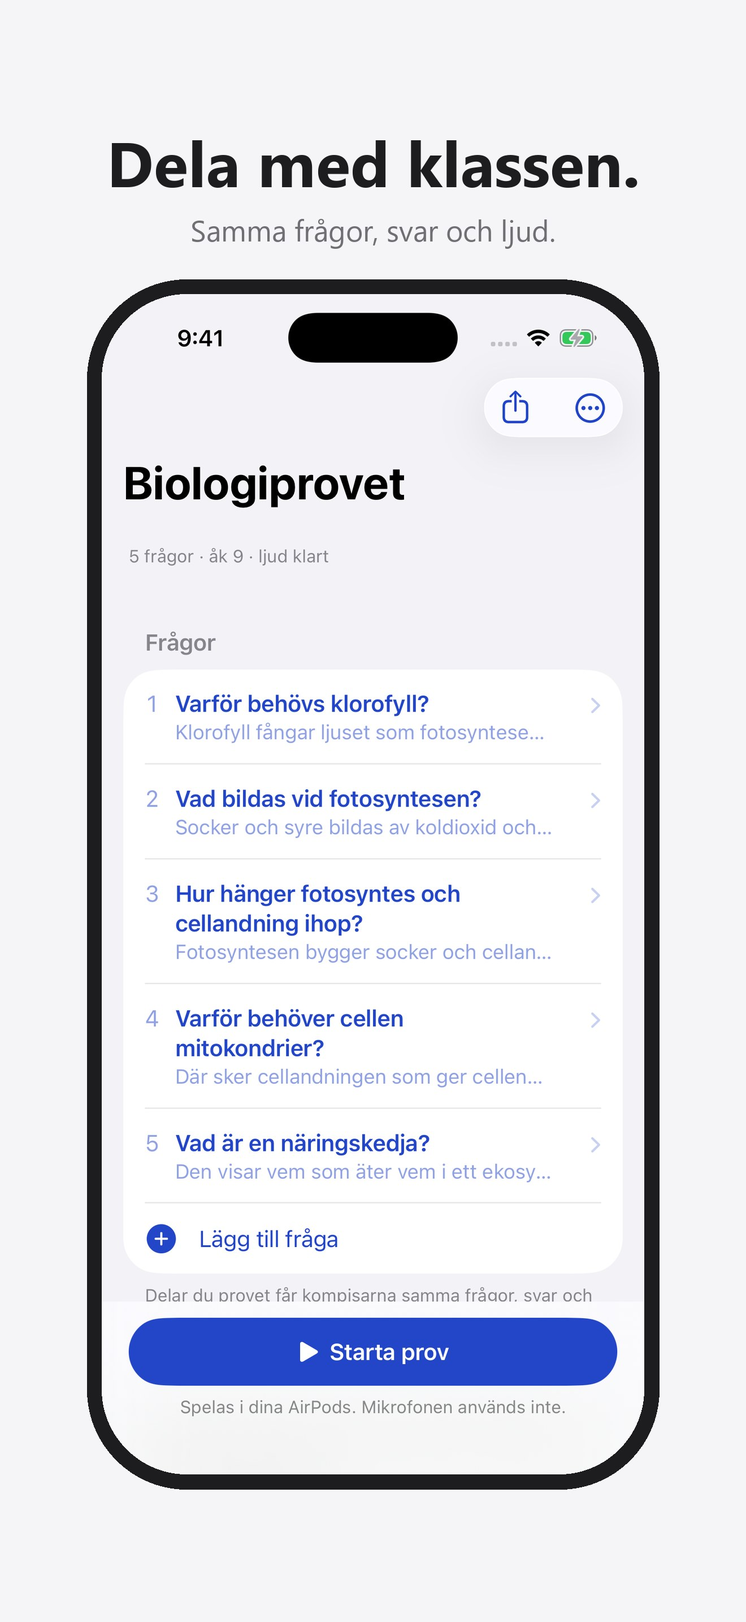
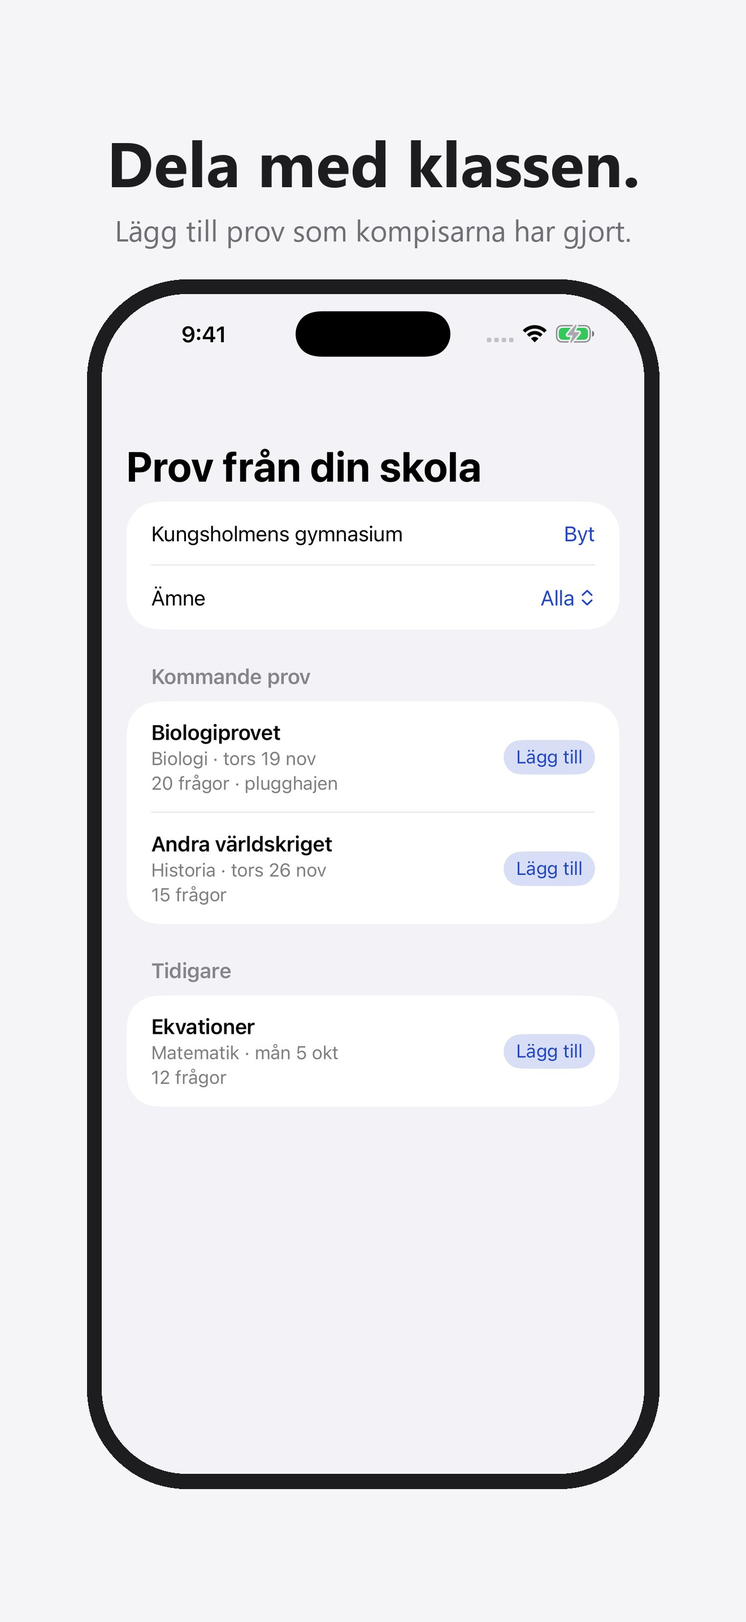
Kelly: App Store-bilder och demosidans utkast ur Pro Max-skärmbilder (43578038498), inget publicerat [skip eval]

diff --git a/drafts/site-repetition/index.html b/drafts/site-repetition/index.html
@@ -6,7 +6,7 @@
 <meta name="robots" content="noindex, nofollow">
 <!-- UTKAST (Kelly Ke54, D160). Publiceras inte förrän Aron sagt ja. Apple-stil enligt docs/design/SYSTEM.md §0:
      systemtypsnitt, en rubrik, en knapp, riktiga skärmbilder från appen, inga kort i kort och inga gradienter.
-     Skärmbilderna kommer från A87 (CI "Simulator screenshots" 43519509067, 3382ae2). -->
+     Skärmbilderna kommer från CI "Simulator screenshots" 43578038498 (iPhone 17 Pro Max, 508aeb2). -->
 <title>Earmind – Plugga med AirPods utan att röra mobilen (utkast)</title>
 <meta name="description" content="Fota materialet. Få provfrågor med A-svar. Plugga med AirPods utan att röra mobilen.">
 <link rel="icon" href="../../site/favicon-32.png">

diff --git a/docs/appstore/_src/appstore.py b/docs/appstore/_src/appstore.py
@@ -28,7 +28,7 @@ SHOTS = [
     ("repList", "Frågor med A-svar.", "Ett kort och ett långt svar på varje fråga."),
     ("repHome", "Starta prov.", "Frågorna läses upp i dina AirPods."),
     ("repControlsDone", "Tryck för svaret.", "1 gång för A-svaret. 2 för ett kort. 3 för paus."),
-    ("repShareReady", "Dela med klassen.", "Samma frågor, svar och ljud."),
+    ("repSchools", "Dela med klassen.", "Lägg till prov som kompisarna har gjort."),
 ]
 
 

diff --git a/docs/STATUS.md b/docs/STATUS.md
@@ -39,7 +39,7 @@ Last updated: 2026-11-08 by Angela (builder).
 - **Provläge (Angela, D36/D38) and Målbeskrivning + Egna kommandon (Angela, D37/D39):** hands-free tutor session (VAD end-of-turn 0.8 s, barge-in, recogniser gated while we speak, auto-end after 10 min releases the microphone, `mode: tutor` with the whole session's `recent_qa`, retried as `push_to_talk` while the backend rejects `tutor`); course goals compact ≤ 1 500 chars as `goals`; keyword commands matched STT-tolerantly and sent as `commands`, spoken "spara kommando …" stored and confirmed. Green in CI (run 41817986402, 249 app tests); **untested on device**; the backend (answer v8) still rejects `mode: tutor` (400, the app falls back to `push_to_talk`) and ignores the new `goals`/`commands` fields until Kevin's D36/D37 tasks land, so the tutor style and command effects are not yet observable. Also the D35 setting *Svarslängd* (Kort / Anpassad / Utförlig → backend `length`, Settings → Answers), green in run 41819618434 (250 app tests). Reports: `reports/2026-11-04-1214-angela-plugglage.md`, `reports/2026-11-04-1214-angela-goals-commands.md`; checklist §3r–3s.
 - **Easy switch to music (Angela, D33):** Pause/Resume on the listening screen, Lock Screen (Live Activity) and a Control; pause releases the audio session, interruptions never auto-resume (also with `shouldResume`), nothing is spoken while paused. New extension `LumenControls`. Green in CI (run 41806325518); **untested on device**, and the Control's process and Lock Screen resume are untested assumptions. Report: `reports/2026-11-04-1130-angela-d33-music-switch.md`.
 - **Queue D44–D58 (Angela, 2026-11-06):** Historik and Minne on the phone (D49/D56), Scribe as default recogniser with Apple as fallback (D44), Mikrofon per mode + comparison in Diagnostics (D55), mode picker with Intervjuläge and Rizzläge on the StudyMachine (D42/D43), report + Feedback & förslag + opt-in sharing (D57), Siri phrases, Start control and spoken pause (D58), checklist §3t–3z. Also fixed: `goals`/`commands` were sent where the backend does not read them. Green in CI (run 42259754856, 315 app tests). **Nothing has run on a device.** `/feedback` and `/shared-history` are not deployed yet. **Open for Aron:** the discreet indicator was not built (see report, Concerns). Report: `reports/2026-11-06-1830-angela-queue-d49-d58.md`.
-- **Offentlig demosida (Kelly, D62/D66/D86):** Kelly: **Ke58 klar (09:55):** Gör med ChatGPT (D169) i docs/design/gor-med-chatgpt.md + 4 skisser (rad i Material, blad med tre steg och PasteButton, känns igen / fel form), till Angela Fable; reports/2026-11-14-0955-kelly-ke58-chatgpt.md. **docs/HJALP.md granskad (03:16, Ke57):** godkänd, tonen och A90-texten stämmer; **till Kevin H-1–H-5:** knapparnas namn som i appen (Lägg till dokument, Dela-symbolen, Rapportera, Provläge, Visa ett användarnamn); reports/2026-11-14-0316-kelly-granskning-hjalp.md. **8684b6d granskad (02:55):** A92 hjälpen godkänd; S1–S5, P3, K4 och pausraden stängda på bild; nya fynd R1 (medel, förloppslinjen över texten i Dela-scenen), S1b/H1/H2 låga; reports/2026-11-14-0255-kelly-granskning-8684b6d.md. **Största text granskad (01:00, CI 43528102988 + SE 43528108671):** rubriker, avstavning, formulär och fasta knappar håller; **S1 hög** ord bryts utan bindestreck vid BETA i Välj läge, **S2 hög** uppspelningen kapar frågan och N1-raden på SE, S3 medel nedre raden på Hem flyter över texten; reports/2026-11-14-0100-kelly-granskning-storsta-text.md. **A83 och A84 granskade på bild (00:33, CI 43524695222): godkända**; P1 (medel) det publicerade provet visar inga frågor före Lägg till; K2/K3/K5 stängda; SYSTEM §10 förtydligad (avstavning med bindestreck okej, långa navigationsrubriker inline vid största text); reports/2026-11-14-0033-kelly-granskning-a83-a84.md. **A87 granskad på bild (2026-11-14 00:10, CI 43519509067 + SE 43519515040): godkänd med två medelfynd** (K1 A90-raden börjar "Tryck" i stället för Arons "tryck", K2 "+" utan text på Hem); A88 och A89 godkända; största text inte granskad (43519595624 och 43519600621 failure); demosidans utkast och App Store-förhandsvisningarna har nu A87-bilder; reports/2026-11-14-0010-kelly-granskning-a87.md. **Ke57 klar (23:48):** hjälp-AI:ns utseende, texter och tonregler i docs/design/hjalp.md + 4 skisser (A92 Angela Fable, K57 Kevin); HJALP.md granskas när den finns; reports/2026-11-13-2348-kelly-ke57-hjalp.md. **Ke56 klar (23:42):** App Store-förberedelse i docs/appstore/ (5 bilder 1320×2868 som förhandsvisning, underrubrik, reklamtext, nyckelord, beskrivning med A90-texten, lista över påståenden att prova på telefon), inget publicerat; reports/2026-11-13-2342-kelly-ke56-appstore.md. **Till Deangelo (från Angela Fable):** Ke55 punkt 1–3 (första starten) ligger i Features/Onboarding, som är Angela Schrutes filer; lägg dem i rätt kö med ägare. **Ke55 klar (23:40):** första starten i Apple-stil, docs/design/forsta-starten.md + 5 skisser (Välkommen med samtycke → Nytt prov → dokumentskannern, inga lyssnande lägen eller mikrofon); **till Deangelo: samtycket för lyssningen flyttas till första starten av ett lyssnande läge (behöver ja)**; reports/2026-11-13-2340-kelly-ke55-forsta-starten.md. **B1, B2, B4, B5 och A86 bekräftade på bild (23:32, CI 43514517449);** små fynd till A87 ("Ta bort provet" inte röd); reports/2026-11-13-2332-kelly-bekraftelse-b1-b2-a86.md. **Ke54 klar (23:26):** demosidan i Apple-stil som utkast i drafts/site-repetition/ (inte publicerat, noindex): systemtypsnitt, en knapp, rubriken "Plugga med AirPods utan att röra mobilen.", tre steg med riktiga app-bilder, tryckdemo utan server; publiceras efter Arons ja och T18; reports/2026-11-13-2326-kelly-ke54-demosida-apple.md. **Ke53 klar (23:00, D160):** SYSTEM.md avsnitt 0 (Apple-stil: SF Pro med textstilar, systemfärger med AccentColor blå, systemkomponenter, en fylld knapp och nästa steg alltid synligt, lista över "AI slop" som tas bort), 7 efter-skisser i `docs/design/bilder/apple/` och **prioriterad lista till Angela (A87, 12 punkter: 1 huvudknappen fast nederst, 2 Hem som systemlista/tomläge, 3 SF Pro, 4 systemknappar, 5 systemfärger/listor …)**; `reports/2026-11-13-2300-kelly-ke53-apple-stil.md`. **Ny användare i repetitionsflödet (22:43, bilder 43508671912):** N1 hög: svaret kommer bara vid tryck, och en ny användare tror att appen hoppar över (förslag: hjälprad + en mening första varvet); N2 kontrollskärmen förklarar inte att frågan spelas, N3 grå Skapa frågor utan skäl, N4 "Starta-knappen"/Provläge i Välj läge; B3/B4 stängda på bild, B1/B2 väntar på bild efter 270b0a0; A85/A86 godkända i koden, A83 inte byggd; reports/2026-11-13-2243-kelly-nyanvandare-repetition.md. **A82 granskad på bild (21:29, CI 43497812619): godkänd med två medelfynd**: B1 "fråga 7 av 5" i Fortsätt där du var?, B2 "Här startar du Earmind" och "Starta Earmind" tar fortfarande plats på Hem (D142: en rad Fler lägen); R1–R12 stängda utom R10 (låg); reports/2026-11-13-2129-kelly-granskning-a82.md. **Ke52 klar (21:17):** design och texter för Publicera prov och Prov från din skola (D149/D150) till A83: `docs/design/publicera-prov.md` + 11 skisser `bilder/repetition/pub-*.png`; användarnamn av från början, skolan sparas bara på telefonen; **till Angela: "övningsprov" finns kvar i A16:s röstförhör (3 ställen, förslag i §3)**; `reports/2026-11-13-2117-kelly-ke52-publicera-prov.md`. **Ke51 klar (20:34):** utkast till demosidan för repetitionsläget i `drafts/site-repetition/` (utanför site/, noindex, **inte publicerat**): "Plugga med AirPods utan att röra mobilen", demo med 1/2/3 tryck utan server, tre steg, lyssnande lägen märkta Beta; publiceras efter T18 + Arons ja; `reports/2026-11-13-2034-kelly-ke51-demosida-utkast.md`. **A78–A81 granskade i koden (20:25), inte på bild (CI 43490256034 failure):** 12 fynd till Angela, **R1 Avsluta är röd och R2 frågan i handstil (höga)**, R4 svarsknappar på uppspelningen, R6 Starta prov väntar på allt ljud, R7 två tryck från Hem, R9 pausraden, R12 Word-felet; `reports/2026-11-13-2025-kelly-granskning-a78-a81-kod.md`. Granskning på bild när CI är grön. **Ke50 klar (2026-11-13 20:19):** alla texter i repetitionsläget i `docs/design/repetition-texter.md` (kopieras rakt in, kolumnen "I koden nu" visar skillnaderna mot b669d02); **till Angela:** paus-raden motsäger D143/D147, Word-felet ska bort (K45 doc_text), nya texter för inga AirPods, inget nät, dagens ljudgräns och delning; `reports/2026-11-13-2019-kelly-ke50-repetitionstexter.md`. Granskar A78–A81 när bilderna finns. **Ke49 klar (2026-11-13 19:57):** design för repetitionsläget (D142–D146) till A79–A81: `docs/design/repetition.md` + 18 skisser ljust/mörkt i `docs/design/bilder/repetition/` (Hem med Starta prov, Nytt prov, sammanfattning, frågelista och redigering med kort svar = markerad första mening, kontrollskärmen med ●/●●/●●●, uppspelning, paus, låsskärm, Fortsätt där du var?, Dela, Fler lägen BETA); **till Deangelo: med D145 blir det 2 × N ljudfiler, inte 3 × N (spec R5b)**; sidan ändras först när A80 provats på telefon (T18), texten är klar; `reports/2026-11-13-1957-kelly-ke49-repetitionslaget.md`. Väntar på kö. Kvar att granska när bilder finns: testlägets skärmar (A76) och hemskärmsikonen efter A71 steg 2. **Ke48 klar (22:22):** A76 testläget: T1–T4 rättade (i koden; bladet nämner andras röster); A77 Vad kan Earmind? från capabilities.json godkänd (CI 43098721442); `reports/2026-11-11-2222-kelly-ke48-a76-rattat-a77.md`. **Ke47 klar (21:48):** sajtens Vad kan Earmind? följer Shared/capabilities.json (K44): Översätta och Söka på webben tillagda, "Kommer snart" kvar på det som inte är provat på telefon; Lighthouse 99/100/100/100; `reports/2026-11-11-2148-kelly-ke47-vad-kan-capabilities.md`. **Ke46 klar (21:16):** A76 testläget godkänd med rättelser (i koden): **T2 bekräftelseblad saknas** (andras röster skickas; hög), T4 ljudtexten motsäger sig själv i Om appen, T1 egen färg i brickan, T3 bricka på Start; `reports/2026-11-11-2116-kelly-ke46-granskning-a76.md`. **Ke45 klar (20:44):** design för testläget (D140, A76): orange bricka "Testläge · ljud skickas", bricka på Start, bekräftelseblad som nämner andras röster, ny ljudtext när testläget är på; `docs/design/testlage.md`, `reports/2026-11-11-2044-kelly-ke45-testlage.md`. **Ke44 klar (20:10):** sajtens tre stegbilder från appen i dag (bort med "Ljud sparas inte." och "förhör Lumen"); Lighthouse 99/100/100/100, 1 528 kB; `reports/2026-11-11-2010-kelly-ke44-stegbilder.md`. **Ke43 klar (20:08):** A71 **godkänd**: AppIcon identisk med exakt/AppIcon-1024.png, röstningen med de sex exakta ikonerna i 2 × 3, märket i rubriken; `reports/2026-11-11-2008-kelly-ke43-granskning-a71.md`. **Ke42 klar (19:05):** sajten visar appens ikon (D glasklotet, exakt) i sidhuvudet, favicon och apple-touch-icon; Lighthouse 99/100/100/100, 1 536 kB; `reports/2026-11-11-1905-kelly-ke42-sajtens-ikon.md`. **Ke22 klar (19:04):** bildplan för de 7 koncepten med Ryans rättelser, slutbild Earmind (D121, exakt ikon), Start-inklipp ur CI och 7 omslag (scenbilderna kommer från Gemini) i `docs/marketing/annonser/ke22/`; cookiebanner och pixlar (Ryans B1) saknar punkt; `reports/2026-11-11-1904-kelly-ke22-bildplan.md`. **Ke41 klar (19:00):** A73 **godkänd** (D138-texten överallt, G3 stängd); L1: licensraden säger att ElevenLabs inte sparar ljudet (motsäger D135); `reports/2026-11-11-1900-kelly-ke41-granskning-a73.md`. **Ke40 klar (18:59):** exakta ChatGPT-ikoner (D139) i `docs/design/logo/rostning/exakt/`: A–F + AppIcon-1024 (D), bara beskurna 2,6–3,1 % för iOS-maskens hörn och uppskalade; **till Angela (A71): filerna är pushade**; `reports/2026-11-11-1859-kelly-ke40-exakta-ikoner.md`. **Väntar på kö (17:35).** Öppet: G3 "Ljud sparas inte" (Ke36) och K1 (Ke38) saknar punkt hos Angela. **Ke39 klar (16:31):** A64 största text **godkänd** på Tobys T13-tur (alla sex reglerna i SYSTEM.md avsnitt 10 håller); två låga rester (lägesikonen skalar inte, Lyssnars underrubrik kapas); `reports/2026-11-11-1631-kelly-ke39-granskning-a64.md`. **Ke38 klar (14:57):** Tobys T8c visar att Ke35 fungerar (Start med "Här startar du Earmind", Provläge 4 tryck i stället för 8, ett blad per öppning efter A66); K1 "Dela historik" ska vara grå sekundär knapp; `reports/2026-11-11-1457-kelly-ke38-granskning-t8c.md`. **Ke37 klar (13:21):** regel för största text i SYSTEM.md avsnitt 10 (aldrig ord brutna mitt i, rader med två delar staplas, rubriker kapas inte), täcker Tobys T11 fynd 1–4 och två till; `reports/2026-11-11-1321-kelly-ke37-storsta-text.md`. **Ke36 klar (12:45):** A55–A61 **godkända** (Earmind, Ke35 Start-rutan, V1/M1/G2 stängda); **öppet G3: "Ljud sparas inte" är osant** (Sov sparar klipp i 30 dagar) i intro, Första frågan och Om appen; ordagranna texter till Deangelo/Angela; `reports/2026-11-11-1245-kelly-ke36-granskning-a55-a61.md`. **Ke35 klar (12:01):** designbeslut på Tobys A50-fynd: första passet slutar på Start med en ruta en gång, varje Starta börjar med tom Lyssnar, Provläge frågar högst en sak (2 tryck i stället för 8); `docs/design/forsta-passet.md`, `reports/2026-11-11-1201-kelly-ke35-forsta-passet.md`. **Ke34 klar (11:28):** A52 **godkänd**, A54 **godkänd med V1** ("Rösta" ser aktiv ut fast den är avstängd: `LumenButtonStyle` saknar avstängt utseende), A53 **godkänd med M1** (textknapp i bläck); kvar G2 grå ikoner i lägesbladet och G3 "Ljud sparas inte" (osant med Sov och inspelning); CI 42999887377; `reports/2026-11-11-1128-kelly-ke34-granskning-a52-a54.md`. **Ke33 klar (10:39):** A50 **godkänd** på CI-bilderna 42993726421 (ljust/mörkt); S2 och Välj läge redan rättade i 537ea48; kvar G1 länk till A52 (med A52), G2 grå ikoner i lägesbladet (låg), G3 "Ljud sparas inte" före A53; `reports/2026-11-11-1039-kelly-ke33-granskning-a50.md`. **Ke32 klar (10:30):** sajten heter Earmind (titel, sidhuvud, metadata, FAQ, demorutan), väckningsordet ”Lumen” kvar i citaten; ny delningsbild `og-earmind.png`; Lighthouse 99/100/100/100, 1 504 kB; `reports/2026-11-11-1030-kelly-ke32-earmind-sajten.md`. **Ke30 klar (10:28):** Mina svar ritat för A53 (`docs/design/mina-svar.md`, 8 skisser ljust/mörkt: lista per prov, Lumens förslag → ditt svar, inspelning med Klar, versioner, brytaren, brickan "Ditt svar" i Provläget); till Aron: inspelning högst 10 min och samtycket måste nämna Scribe före A53; `reports/2026-11-11-1028-kelly-ke30-mina-svar.md`. **Ke29 klar (10:28):** underlag `docs/design/start-vadkan.md` (7 skisser ljust/mörkt): A50 granskad i koden (S1 länk "Allt Lumen kan ›", S2 inget Spotify-exempel före Spotify), A52 "Vad kan Lumen?" ritad (13 rader med verklig status) och bladet efter första svaret; sajten har sektionen Vad kan Lumen? med Siri-raden ("Kommer snart" på det som inte är provat), demorutan Standardläge/Förhör mig; Lighthouse 99/100/100/100, 1 504 kB; `reports/2026-11-11-1028-kelly-ke29-start-vadkan.md`. **Ke31 klar (10:18):** röstningens tre loggor (D127) som rena vektorer, mörk och ljus, samma storlek och ljus (bakgrund 0,010–0,016, toppljus 0,67–0,72), läsbara i 60 och 29 pt; till Angela (A54): `docs/design/logo/rostning/vektor/README.md`; `reports/2026-11-11-1018-kelly-ke31-rostning-vektor.md`. Nästa: Ke29. **Ke24 klar (21:23):** Aron valde logga nummer 4 (bock med ljudvågor); ritad som vektor i `docs/design/logo/` (AppIcon 1024 ljus/mörk/tonad, symbol, favicon), läsbar i 29 pt; demosidans sidhuvud och favicons bytta (Lighthouse 100×4, 1 515 kB); **till Angela: AppIcon (appen har ingen) och `LumenLogo` enligt SYSTEM.md avsnitt 5**; `reports/2026-11-10-2123-kelly-ke24-logga.md`. Väntar på kö, överlämning `docs/HANDOVER-KELLY.md`. **Ke28 klar (20:30):** appens CI-bilder (42876421405) godkända mot SYSTEM.md, 6 fynd; viktigast **Elias hörlur är vit och Apple-lik** (byts före App Store); `reports/2026-11-10-2030-kelly-ke28-granskning.md`. **Ke27 klar (20:28):** sömnläget ritat för A49 (`docs/design/sovlage.md`: Sov i Byt läge, eget samtycke första gången, svart natt med Godmorgon, morgonrapport med en mening, tre siffror, tidslinje och klipp); **"Ljud sparas inte" i intro/samtycke blir osant med A49**, förslag i filen. **Ke26 klar (20:24):** D121 i heron ("AI:n i dina AirPods. För vardagen, skolan och jobbet." + "Starta Lumen en gång, sen finns den i örat. Säg ”Lumen” så svarar den."; "hela dagen" utelämnat tills batteriet är mätt), Lighthouse 100×4, 1 507 kB; `reports/2026-11-10-2024-kelly-ke26-d121-sidan.md`. **Ke25 klar (20:12):** utkast till App Store-sidan i `docs/marketing/appstore/` (6 bilder i 6,9" och 6,1" ur CI 42876421405, texter, åldersgräns 13+ där Rizz är osäker, integritetsetiketter efter A41); **integritetspolicy saknas** och krävs; slutbild till Ryans annonser i `docs/marketing/annonser/slutbild/`; `reports/2026-11-10-2012-kelly-ke25-appstore.md`. **Ke23 klar (20:20):** sju namn kollade i App Store, EUIPO/TMview och DNS; **Earwise rött** (appen "EarWise: Ear Training", hörselkliniken earwise.se, ljudappen earwise.app), Earpiece AI rött, "Pod"/"Whisper" Apple-/OpenAI-risk; **rekommenderar Earmind** (Proviska reserv) och ChatGPT-symbol 4; PRV ej kontrollerat; `docs/design/namn.md`, `reports/2026-11-10-1932-kelly-ke23-namn-logga.md`. **Ke24 väntar på Arons nummer.** **A30 granskad: godkänd** (Ke20:s fyra fynd rättade i simulatorbilder; 6 mindre nya fynd till Angela, bl.a. "Startar …" på Har du prov snart?, demodata som blandar ämnen i övningsprovet). **Ke18 klar:** sidans tre steg visar appen i det nya systemet (Första frågan, Har du prov snart?, Provläget med "Lyssnar"); Lighthouse 99/100/100/100, bara Chromium; `reports/2026-11-10-1249-kelly-granskning-a30-ke18.md`. Kellys session stoppar enligt PLAN 2e (två komprimeringar); Ke22–Ke25 väntar på nästa Kelly-session, se `docs/HANDOVER-KELLY.md`. **Ke21 klar:** "Rizz 18+" och "bara för dig som är 18 år" borta från sidan och skissen Byt läge (D112); sidan beskriver inga spärrar utöver integritet och demons gräns (B2, B3); `reports/2026-11-10-1240-kelly-ke21-d112-sidan.md`. **Ke20 klar:** A26 **godkänd** (R1–R6 stängda i simulatorbilder). Nytt fynd: Övningsprovet (A16) visar ingen lyssnarbricka (skyddsräcke), plus 3 mindre; `reports/2026-11-10-1133-kelly-granskning-a26.md`. Ke18 del 1: sidans steg 1 har appens nya Första frågan; steg 2–3 väntar på bilderna `addExam` och Provläget lyssnar. **Ke19 klar:** demorutan har D97:s två val (Förhör mig = tre Provlägesfrågor med inspelade svar utan anrop, Få A-svar till provet = livedemon, förvald); Lighthouse 99/100/100/100, 1 491 kB, bara Chromium; `reports/2026-11-10-1046-kelly-ke19-d97-pa-sidan.md`. **Ke9 klar** (en väg på demosidan: demo → "Så kommer du igång" i 3 steg → en knapp; mobil 8 533 → 4 226 px, Lighthouse 100; designunderlag för appen i `docs/design/enkel-start.md` till A18; `reports/2026-11-10-0735-kelly-ke9-enkel-start.md`; live, Pages-deploy grön). Ke10 klar (underlag för Start utan prov, Lyssnar och Mikrofon nekad; `reports/2026-11-10-0735-kelly-ke10-vanliga-vagen.md`). Ke11 klar (FAQ synlig på sidan, samma ord i demons rad; `reports/2026-11-10-0740-kelly-ke11-ord-faq.md`). Ke12b klar (designspec app mot sida i `docs/design/designspec.md`; `reports/2026-11-10-0738-kelly-ke12b-designspec.md`). **Ke12 klar:** nytt designsystem `docs/design/SYSTEM.md` (ersätter D86:s skollook i appen) med 3 loggförslag och 5 skärmar före/efter till A18; `reports/2026-11-10-0746-kelly-ke12-proffsig-pluggapp.md`. Ke17 klar: A18 **godkänd med rättelser** (Start godkänd; R1–R4 till Angela före nästa T3), `reports/2026-11-10-0805-kelly-granskning-a18.md`. Ke16 klar: annonserna i nya systemet (`docs/marketing/annonser/system/`); `reports/2026-11-10-0802-kelly-ke16-annonser-system.md`. Ke15 klar: ny delningsbild `og-lumen.png`, site 1 487 kB; `reports/2026-11-10-0800-kelly-ke15-delningsbild.md`. Ke14 klar: SYSTEM.md del 2 (fem skärmar till A18/A22); `reports/2026-11-10-0759-kelly-ke14-system-del2.md`. Ke13 klar: D97 två knappar på provkortet i SYSTEM.md och skisserna; `reports/2026-11-10-0754-kelly-ke13-d97-tva-knappar.md`. Ke13b klar: sidan i SYSTEM.md (ingen handstil eller rutpapper, Kalam bort, 1 699 kB); `reports/2026-11-10-0751-kelly-ke13-sida-nya-systemet.md`. Ke3 klar (steg med T3-bilder, animation, FAQ, sitemap). Ke2 klar (fokus till svaret efter en fråga, träffytor 44 px, taket för tal provat live med fejkad mikrofon; `reports/2026-11-08-1815-kelly-ke2-oscar-fynd.md`). Ke1 klar (riktiga Provläge-exempel med inspelat ljud, väntelisterad efter svaret, svepbara exempelfrågor på mobil, inga layoutskift, delningsbild och favicon; 61 kB vid start; `reports/2026-11-08-1640-kelly-ke1-demo.md`). Sidan är **publicerad** på https://aronstenlund-code.github.io/aronstenlund-airpods-ai/ (Pages på 2026-11-08, run 42486945392: check och deploy gröna). Live verifierat i Chromium: en riktig fråga gav svar (signup, answer, tts 200), typsnitten laddas och CORS tillåter adressen. Appens design (D86) med platshållare för foto. Ändringar i `site/` publiceras av sig själva vid push till main. **Ej testad på iPhone, Safari eller AirPods.** Kvar: riktigt foto. Rapporter: `reports/2026-11-08-1250-kelly-demo-publish.md`, `reports/2026-11-08-1450-kelly-demo-d86.md`.
+- **Offentlig demosida (Kelly, D62/D66/D86):** Kelly: **Ke56/Ke54 med riktiga bilder (10:19):** skärmbilder på iPhone 17 Pro Max (CI 43578038498, 1320×2868, exakta) i docs/appstore/69-*.jpg och i demosidans utkast; rubrikerna i Segoe UI tills de görs med SF Pro på en Mac; inget publicerat; reports/2026-11-14-1019-kelly-ke56-ke54-promax.md. **Ke58 klar (09:55):** Gör med ChatGPT (D169) i docs/design/gor-med-chatgpt.md + 4 skisser (rad i Material, blad med tre steg och PasteButton, känns igen / fel form), till Angela Fable; reports/2026-11-14-0955-kelly-ke58-chatgpt.md. **docs/HJALP.md granskad (03:16, Ke57):** godkänd, tonen och A90-texten stämmer; **till Kevin H-1–H-5:** knapparnas namn som i appen (Lägg till dokument, Dela-symbolen, Rapportera, Provläge, Visa ett användarnamn); reports/2026-11-14-0316-kelly-granskning-hjalp.md. **8684b6d granskad (02:55):** A92 hjälpen godkänd; S1–S5, P3, K4 och pausraden stängda på bild; nya fynd R1 (medel, förloppslinjen över texten i Dela-scenen), S1b/H1/H2 låga; reports/2026-11-14-0255-kelly-granskning-8684b6d.md. **Största text granskad (01:00, CI 43528102988 + SE 43528108671):** rubriker, avstavning, formulär och fasta knappar håller; **S1 hög** ord bryts utan bindestreck vid BETA i Välj läge, **S2 hög** uppspelningen kapar frågan och N1-raden på SE, S3 medel nedre raden på Hem flyter över texten; reports/2026-11-14-0100-kelly-granskning-storsta-text.md. **A83 och A84 granskade på bild (00:33, CI 43524695222): godkända**; P1 (medel) det publicerade provet visar inga frågor före Lägg till; K2/K3/K5 stängda; SYSTEM §10 förtydligad (avstavning med bindestreck okej, långa navigationsrubriker inline vid största text); reports/2026-11-14-0033-kelly-granskning-a83-a84.md. **A87 granskad på bild (2026-11-14 00:10, CI 43519509067 + SE 43519515040): godkänd med två medelfynd** (K1 A90-raden börjar "Tryck" i stället för Arons "tryck", K2 "+" utan text på Hem); A88 och A89 godkända; största text inte granskad (43519595624 och 43519600621 failure); demosidans utkast och App Store-förhandsvisningarna har nu A87-bilder; reports/2026-11-14-0010-kelly-granskning-a87.md. **Ke57 klar (23:48):** hjälp-AI:ns utseende, texter och tonregler i docs/design/hjalp.md + 4 skisser (A92 Angela Fable, K57 Kevin); HJALP.md granskas när den finns; reports/2026-11-13-2348-kelly-ke57-hjalp.md. **Ke56 klar (23:42):** App Store-förberedelse i docs/appstore/ (5 bilder 1320×2868 som förhandsvisning, underrubrik, reklamtext, nyckelord, beskrivning med A90-texten, lista över påståenden att prova på telefon), inget publicerat; reports/2026-11-13-2342-kelly-ke56-appstore.md. **Till Deangelo (från Angela Fable):** Ke55 punkt 1–3 (första starten) ligger i Features/Onboarding, som är Angela Schrutes filer; lägg dem i rätt kö med ägare. **Ke55 klar (23:40):** första starten i Apple-stil, docs/design/forsta-starten.md + 5 skisser (Välkommen med samtycke → Nytt prov → dokumentskannern, inga lyssnande lägen eller mikrofon); **till Deangelo: samtycket för lyssningen flyttas till första starten av ett lyssnande läge (behöver ja)**; reports/2026-11-13-2340-kelly-ke55-forsta-starten.md. **B1, B2, B4, B5 och A86 bekräftade på bild (23:32, CI 43514517449);** små fynd till A87 ("Ta bort provet" inte röd); reports/2026-11-13-2332-kelly-bekraftelse-b1-b2-a86.md. **Ke54 klar (23:26):** demosidan i Apple-stil som utkast i drafts/site-repetition/ (inte publicerat, noindex): systemtypsnitt, en knapp, rubriken "Plugga med AirPods utan att röra mobilen.", tre steg med riktiga app-bilder, tryckdemo utan server; publiceras efter Arons ja och T18; reports/2026-11-13-2326-kelly-ke54-demosida-apple.md. **Ke53 klar (23:00, D160):** SYSTEM.md avsnitt 0 (Apple-stil: SF Pro med textstilar, systemfärger med AccentColor blå, systemkomponenter, en fylld knapp och nästa steg alltid synligt, lista över "AI slop" som tas bort), 7 efter-skisser i `docs/design/bilder/apple/` och **prioriterad lista till Angela (A87, 12 punkter: 1 huvudknappen fast nederst, 2 Hem som systemlista/tomläge, 3 SF Pro, 4 systemknappar, 5 systemfärger/listor …)**; `reports/2026-11-13-2300-kelly-ke53-apple-stil.md`. **Ny användare i repetitionsflödet (22:43, bilder 43508671912):** N1 hög: svaret kommer bara vid tryck, och en ny användare tror att appen hoppar över (förslag: hjälprad + en mening första varvet); N2 kontrollskärmen förklarar inte att frågan spelas, N3 grå Skapa frågor utan skäl, N4 "Starta-knappen"/Provläge i Välj läge; B3/B4 stängda på bild, B1/B2 väntar på bild efter 270b0a0; A85/A86 godkända i koden, A83 inte byggd; reports/2026-11-13-2243-kelly-nyanvandare-repetition.md. **A82 granskad på bild (21:29, CI 43497812619): godkänd med två medelfynd**: B1 "fråga 7 av 5" i Fortsätt där du var?, B2 "Här startar du Earmind" och "Starta Earmind" tar fortfarande plats på Hem (D142: en rad Fler lägen); R1–R12 stängda utom R10 (låg); reports/2026-11-13-2129-kelly-granskning-a82.md. **Ke52 klar (21:17):** design och texter för Publicera prov och Prov från din skola (D149/D150) till A83: `docs/design/publicera-prov.md` + 11 skisser `bilder/repetition/pub-*.png`; användarnamn av från början, skolan sparas bara på telefonen; **till Angela: "övningsprov" finns kvar i A16:s röstförhör (3 ställen, förslag i §3)**; `reports/2026-11-13-2117-kelly-ke52-publicera-prov.md`. **Ke51 klar (20:34):** utkast till demosidan för repetitionsläget i `drafts/site-repetition/` (utanför site/, noindex, **inte publicerat**): "Plugga med AirPods utan att röra mobilen", demo med 1/2/3 tryck utan server, tre steg, lyssnande lägen märkta Beta; publiceras efter T18 + Arons ja; `reports/2026-11-13-2034-kelly-ke51-demosida-utkast.md`. **A78–A81 granskade i koden (20:25), inte på bild (CI 43490256034 failure):** 12 fynd till Angela, **R1 Avsluta är röd och R2 frågan i handstil (höga)**, R4 svarsknappar på uppspelningen, R6 Starta prov väntar på allt ljud, R7 två tryck från Hem, R9 pausraden, R12 Word-felet; `reports/2026-11-13-2025-kelly-granskning-a78-a81-kod.md`. Granskning på bild när CI är grön. **Ke50 klar (2026-11-13 20:19):** alla texter i repetitionsläget i `docs/design/repetition-texter.md` (kopieras rakt in, kolumnen "I koden nu" visar skillnaderna mot b669d02); **till Angela:** paus-raden motsäger D143/D147, Word-felet ska bort (K45 doc_text), nya texter för inga AirPods, inget nät, dagens ljudgräns och delning; `reports/2026-11-13-2019-kelly-ke50-repetitionstexter.md`. Granskar A78–A81 när bilderna finns. **Ke49 klar (2026-11-13 19:57):** design för repetitionsläget (D142–D146) till A79–A81: `docs/design/repetition.md` + 18 skisser ljust/mörkt i `docs/design/bilder/repetition/` (Hem med Starta prov, Nytt prov, sammanfattning, frågelista och redigering med kort svar = markerad första mening, kontrollskärmen med ●/●●/●●●, uppspelning, paus, låsskärm, Fortsätt där du var?, Dela, Fler lägen BETA); **till Deangelo: med D145 blir det 2 × N ljudfiler, inte 3 × N (spec R5b)**; sidan ändras först när A80 provats på telefon (T18), texten är klar; `reports/2026-11-13-1957-kelly-ke49-repetitionslaget.md`. Väntar på kö. Kvar att granska när bilder finns: testlägets skärmar (A76) och hemskärmsikonen efter A71 steg 2. **Ke48 klar (22:22):** A76 testläget: T1–T4 rättade (i koden; bladet nämner andras röster); A77 Vad kan Earmind? från capabilities.json godkänd (CI 43098721442); `reports/2026-11-11-2222-kelly-ke48-a76-rattat-a77.md`. **Ke47 klar (21:48):** sajtens Vad kan Earmind? följer Shared/capabilities.json (K44): Översätta och Söka på webben tillagda, "Kommer snart" kvar på det som inte är provat på telefon; Lighthouse 99/100/100/100; `reports/2026-11-11-2148-kelly-ke47-vad-kan-capabilities.md`. **Ke46 klar (21:16):** A76 testläget godkänd med rättelser (i koden): **T2 bekräftelseblad saknas** (andras röster skickas; hög), T4 ljudtexten motsäger sig själv i Om appen, T1 egen färg i brickan, T3 bricka på Start; `reports/2026-11-11-2116-kelly-ke46-granskning-a76.md`. **Ke45 klar (20:44):** design för testläget (D140, A76): orange bricka "Testläge · ljud skickas", bricka på Start, bekräftelseblad som nämner andras röster, ny ljudtext när testläget är på; `docs/design/testlage.md`, `reports/2026-11-11-2044-kelly-ke45-testlage.md`. **Ke44 klar (20:10):** sajtens tre stegbilder från appen i dag (bort med "Ljud sparas inte." och "förhör Lumen"); Lighthouse 99/100/100/100, 1 528 kB; `reports/2026-11-11-2010-kelly-ke44-stegbilder.md`. **Ke43 klar (20:08):** A71 **godkänd**: AppIcon identisk med exakt/AppIcon-1024.png, röstningen med de sex exakta ikonerna i 2 × 3, märket i rubriken; `reports/2026-11-11-2008-kelly-ke43-granskning-a71.md`. **Ke42 klar (19:05):** sajten visar appens ikon (D glasklotet, exakt) i sidhuvudet, favicon och apple-touch-icon; Lighthouse 99/100/100/100, 1 536 kB; `reports/2026-11-11-1905-kelly-ke42-sajtens-ikon.md`. **Ke22 klar (19:04):** bildplan för de 7 koncepten med Ryans rättelser, slutbild Earmind (D121, exakt ikon), Start-inklipp ur CI och 7 omslag (scenbilderna kommer från Gemini) i `docs/marketing/annonser/ke22/`; cookiebanner och pixlar (Ryans B1) saknar punkt; `reports/2026-11-11-1904-kelly-ke22-bildplan.md`. **Ke41 klar (19:00):** A73 **godkänd** (D138-texten överallt, G3 stängd); L1: licensraden säger att ElevenLabs inte sparar ljudet (motsäger D135); `reports/2026-11-11-1900-kelly-ke41-granskning-a73.md`. **Ke40 klar (18:59):** exakta ChatGPT-ikoner (D139) i `docs/design/logo/rostning/exakt/`: A–F + AppIcon-1024 (D), bara beskurna 2,6–3,1 % för iOS-maskens hörn och uppskalade; **till Angela (A71): filerna är pushade**; `reports/2026-11-11-1859-kelly-ke40-exakta-ikoner.md`. **Väntar på kö (17:35).** Öppet: G3 "Ljud sparas inte" (Ke36) och K1 (Ke38) saknar punkt hos Angela. **Ke39 klar (16:31):** A64 största text **godkänd** på Tobys T13-tur (alla sex reglerna i SYSTEM.md avsnitt 10 håller); två låga rester (lägesikonen skalar inte, Lyssnars underrubrik kapas); `reports/2026-11-11-1631-kelly-ke39-granskning-a64.md`. **Ke38 klar (14:57):** Tobys T8c visar att Ke35 fungerar (Start med "Här startar du Earmind", Provläge 4 tryck i stället för 8, ett blad per öppning efter A66); K1 "Dela historik" ska vara grå sekundär knapp; `reports/2026-11-11-1457-kelly-ke38-granskning-t8c.md`. **Ke37 klar (13:21):** regel för största text i SYSTEM.md avsnitt 10 (aldrig ord brutna mitt i, rader med två delar staplas, rubriker kapas inte), täcker Tobys T11 fynd 1–4 och två till; `reports/2026-11-11-1321-kelly-ke37-storsta-text.md`. **Ke36 klar (12:45):** A55–A61 **godkända** (Earmind, Ke35 Start-rutan, V1/M1/G2 stängda); **öppet G3: "Ljud sparas inte" är osant** (Sov sparar klipp i 30 dagar) i intro, Första frågan och Om appen; ordagranna texter till Deangelo/Angela; `reports/2026-11-11-1245-kelly-ke36-granskning-a55-a61.md`. **Ke35 klar (12:01):** designbeslut på Tobys A50-fynd: första passet slutar på Start med en ruta en gång, varje Starta börjar med tom Lyssnar, Provläge frågar högst en sak (2 tryck i stället för 8); `docs/design/forsta-passet.md`, `reports/2026-11-11-1201-kelly-ke35-forsta-passet.md`. **Ke34 klar (11:28):** A52 **godkänd**, A54 **godkänd med V1** ("Rösta" ser aktiv ut fast den är avstängd: `LumenButtonStyle` saknar avstängt utseende), A53 **godkänd med M1** (textknapp i bläck); kvar G2 grå ikoner i lägesbladet och G3 "Ljud sparas inte" (osant med Sov och inspelning); CI 42999887377; `reports/2026-11-11-1128-kelly-ke34-granskning-a52-a54.md`. **Ke33 klar (10:39):** A50 **godkänd** på CI-bilderna 42993726421 (ljust/mörkt); S2 och Välj läge redan rättade i 537ea48; kvar G1 länk till A52 (med A52), G2 grå ikoner i lägesbladet (låg), G3 "Ljud sparas inte" före A53; `reports/2026-11-11-1039-kelly-ke33-granskning-a50.md`. **Ke32 klar (10:30):** sajten heter Earmind (titel, sidhuvud, metadata, FAQ, demorutan), väckningsordet ”Lumen” kvar i citaten; ny delningsbild `og-earmind.png`; Lighthouse 99/100/100/100, 1 504 kB; `reports/2026-11-11-1030-kelly-ke32-earmind-sajten.md`. **Ke30 klar (10:28):** Mina svar ritat för A53 (`docs/design/mina-svar.md`, 8 skisser ljust/mörkt: lista per prov, Lumens förslag → ditt svar, inspelning med Klar, versioner, brytaren, brickan "Ditt svar" i Provläget); till Aron: inspelning högst 10 min och samtycket måste nämna Scribe före A53; `reports/2026-11-11-1028-kelly-ke30-mina-svar.md`. **Ke29 klar (10:28):** underlag `docs/design/start-vadkan.md` (7 skisser ljust/mörkt): A50 granskad i koden (S1 länk "Allt Lumen kan ›", S2 inget Spotify-exempel före Spotify), A52 "Vad kan Lumen?" ritad (13 rader med verklig status) och bladet efter första svaret; sajten har sektionen Vad kan Lumen? med Siri-raden ("Kommer snart" på det som inte är provat), demorutan Standardläge/Förhör mig; Lighthouse 99/100/100/100, 1 504 kB; `reports/2026-11-11-1028-kelly-ke29-start-vadkan.md`. **Ke31 klar (10:18):** röstningens tre loggor (D127) som rena vektorer, mörk och ljus, samma storlek och ljus (bakgrund 0,010–0,016, toppljus 0,67–0,72), läsbara i 60 och 29 pt; till Angela (A54): `docs/design/logo/rostning/vektor/README.md`; `reports/2026-11-11-1018-kelly-ke31-rostning-vektor.md`. Nästa: Ke29. **Ke24 klar (21:23):** Aron valde logga nummer 4 (bock med ljudvågor); ritad som vektor i `docs/design/logo/` (AppIcon 1024 ljus/mörk/tonad, symbol, favicon), läsbar i 29 pt; demosidans sidhuvud och favicons bytta (Lighthouse 100×4, 1 515 kB); **till Angela: AppIcon (appen har ingen) och `LumenLogo` enligt SYSTEM.md avsnitt 5**; `reports/2026-11-10-2123-kelly-ke24-logga.md`. Väntar på kö, överlämning `docs/HANDOVER-KELLY.md`. **Ke28 klar (20:30):** appens CI-bilder (42876421405) godkända mot SYSTEM.md, 6 fynd; viktigast **Elias hörlur är vit och Apple-lik** (byts före App Store); `reports/2026-11-10-2030-kelly-ke28-granskning.md`. **Ke27 klar (20:28):** sömnläget ritat för A49 (`docs/design/sovlage.md`: Sov i Byt läge, eget samtycke första gången, svart natt med Godmorgon, morgonrapport med en mening, tre siffror, tidslinje och klipp); **"Ljud sparas inte" i intro/samtycke blir osant med A49**, förslag i filen. **Ke26 klar (20:24):** D121 i heron ("AI:n i dina AirPods. För vardagen, skolan och jobbet." + "Starta Lumen en gång, sen finns den i örat. Säg ”Lumen” så svarar den."; "hela dagen" utelämnat tills batteriet är mätt), Lighthouse 100×4, 1 507 kB; `reports/2026-11-10-2024-kelly-ke26-d121-sidan.md`. **Ke25 klar (20:12):** utkast till App Store-sidan i `docs/marketing/appstore/` (6 bilder i 6,9" och 6,1" ur CI 42876421405, texter, åldersgräns 13+ där Rizz är osäker, integritetsetiketter efter A41); **integritetspolicy saknas** och krävs; slutbild till Ryans annonser i `docs/marketing/annonser/slutbild/`; `reports/2026-11-10-2012-kelly-ke25-appstore.md`. **Ke23 klar (20:20):** sju namn kollade i App Store, EUIPO/TMview och DNS; **Earwise rött** (appen "EarWise: Ear Training", hörselkliniken earwise.se, ljudappen earwise.app), Earpiece AI rött, "Pod"/"Whisper" Apple-/OpenAI-risk; **rekommenderar Earmind** (Proviska reserv) och ChatGPT-symbol 4; PRV ej kontrollerat; `docs/design/namn.md`, `reports/2026-11-10-1932-kelly-ke23-namn-logga.md`. **Ke24 väntar på Arons nummer.** **A30 granskad: godkänd** (Ke20:s fyra fynd rättade i simulatorbilder; 6 mindre nya fynd till Angela, bl.a. "Startar …" på Har du prov snart?, demodata som blandar ämnen i övningsprovet). **Ke18 klar:** sidans tre steg visar appen i det nya systemet (Första frågan, Har du prov snart?, Provläget med "Lyssnar"); Lighthouse 99/100/100/100, bara Chromium; `reports/2026-11-10-1249-kelly-granskning-a30-ke18.md`. Kellys session stoppar enligt PLAN 2e (två komprimeringar); Ke22–Ke25 väntar på nästa Kelly-session, se `docs/HANDOVER-KELLY.md`. **Ke21 klar:** "Rizz 18+" och "bara för dig som är 18 år" borta från sidan och skissen Byt läge (D112); sidan beskriver inga spärrar utöver integritet och demons gräns (B2, B3); `reports/2026-11-10-1240-kelly-ke21-d112-sidan.md`. **Ke20 klar:** A26 **godkänd** (R1–R6 stängda i simulatorbilder). Nytt fynd: Övningsprovet (A16) visar ingen lyssnarbricka (skyddsräcke), plus 3 mindre; `reports/2026-11-10-1133-kelly-granskning-a26.md`. Ke18 del 1: sidans steg 1 har appens nya Första frågan; steg 2–3 väntar på bilderna `addExam` och Provläget lyssnar. **Ke19 klar:** demorutan har D97:s två val (Förhör mig = tre Provlägesfrågor med inspelade svar utan anrop, Få A-svar till provet = livedemon, förvald); Lighthouse 99/100/100/100, 1 491 kB, bara Chromium; `reports/2026-11-10-1046-kelly-ke19-d97-pa-sidan.md`. **Ke9 klar** (en väg på demosidan: demo → "Så kommer du igång" i 3 steg → en knapp; mobil 8 533 → 4 226 px, Lighthouse 100; designunderlag för appen i `docs/design/enkel-start.md` till A18; `reports/2026-11-10-0735-kelly-ke9-enkel-start.md`; live, Pages-deploy grön). Ke10 klar (underlag för Start utan prov, Lyssnar och Mikrofon nekad; `reports/2026-11-10-0735-kelly-ke10-vanliga-vagen.md`). Ke11 klar (FAQ synlig på sidan, samma ord i demons rad; `reports/2026-11-10-0740-kelly-ke11-ord-faq.md`). Ke12b klar (designspec app mot sida i `docs/design/designspec.md`; `reports/2026-11-10-0738-kelly-ke12b-designspec.md`). **Ke12 klar:** nytt designsystem `docs/design/SYSTEM.md` (ersätter D86:s skollook i appen) med 3 loggförslag och 5 skärmar före/efter till A18; `reports/2026-11-10-0746-kelly-ke12-proffsig-pluggapp.md`. Ke17 klar: A18 **godkänd med rättelser** (Start godkänd; R1–R4 till Angela före nästa T3), `reports/2026-11-10-0805-kelly-granskning-a18.md`. Ke16 klar: annonserna i nya systemet (`docs/marketing/annonser/system/`); `reports/2026-11-10-0802-kelly-ke16-annonser-system.md`. Ke15 klar: ny delningsbild `og-lumen.png`, site 1 487 kB; `reports/2026-11-10-0800-kelly-ke15-delningsbild.md`. Ke14 klar: SYSTEM.md del 2 (fem skärmar till A18/A22); `reports/2026-11-10-0759-kelly-ke14-system-del2.md`. Ke13 klar: D97 två knappar på provkortet i SYSTEM.md och skisserna; `reports/2026-11-10-0754-kelly-ke13-d97-tva-knappar.md`. Ke13b klar: sidan i SYSTEM.md (ingen handstil eller rutpapper, Kalam bort, 1 699 kB); `reports/2026-11-10-0751-kelly-ke13-sida-nya-systemet.md`. Ke3 klar (steg med T3-bilder, animation, FAQ, sitemap). Ke2 klar (fokus till svaret efter en fråga, träffytor 44 px, taket för tal provat live med fejkad mikrofon; `reports/2026-11-08-1815-kelly-ke2-oscar-fynd.md`). Ke1 klar (riktiga Provläge-exempel med inspelat ljud, väntelisterad efter svaret, svepbara exempelfrågor på mobil, inga layoutskift, delningsbild och favicon; 61 kB vid start; `reports/2026-11-08-1640-kelly-ke1-demo.md`). Sidan är **publicerad** på https://aronstenlund-code.github.io/aronstenlund-airpods-ai/ (Pages på 2026-11-08, run 42486945392: check och deploy gröna). Live verifierat i Chromium: en riktig fråga gav svar (signup, answer, tts 200), typsnitten laddas och CORS tillåter adressen. Appens design (D86) med platshållare för foto. Ändringar i `site/` publiceras av sig själva vid push till main. **Ej testad på iPhone, Safari eller AirPods.** Kvar: riktigt foto. Rapporter: `reports/2026-11-08-1250-kelly-demo-publish.md`, `reports/2026-11-08-1450-kelly-demo-d86.md`.
 - **D63 + indicator (Angela, 2026-11-06):** Rizzläge flirty only behind an 18+ gate, new Socialt läge, slimmer indicator that keeps its text and Stop (D68, Aron confirmed "Behåll texten"). Green in CI (run 42268384817, 320 app tests). **Untested on device.** Both live modes fail against the server until Kevin's D63 is deployed. Report: `reports/2026-11-06-1945-angela-d63-indicator.md`.
 - **Device install without a Mac (Angela, D70, 2026-11-07):** CI archives the app unsigned and uploads `Lumen-unsigned.ipa` (artifact `Lumen-unsigned`, 14 days) on green builds of main and on manual runs; no entitlements in the repo, so nothing is dropped. Swedish steps: `docs/INSTALL-SIDELOADLY.md`. Aron installed it on an iPhone 14 Pro (iOS 26.5).
 - **Crash when the microphone starts, fixed (Angela, 2026-11-07):** the capture tap closure inherited `@MainActor` and Swift 6 trapped on Core Audio's real-time queue (9 crashes on device). Six callbacks (two audio taps, the synthesizer buffer callback, the player completion handler, the SFSpeech result and authorization handlers) are now nonisolated; a test calls each from a background queue. **D71:** Provläge never auto-ends by default. Commit `4a50887`. **Untested on device** until Aron reinstalls. Report: `reports/2026-11-07-1640-angela-crash-fix-callbacks.md`.

diff --git a/docs/appstore/README.md b/docs/appstore/README.md
@@ -10,11 +10,12 @@ efter Arons ja (CLAUDE.md). Ersätter utkastet i `docs/marketing/appstore/` (Ke2
 | 2 | `69-2.jpg` | Frågor med A-svar. | Ett kort och ett långt svar på varje fråga. | `repList` |
 | 3 | `69-3.jpg` | Starta prov. | Frågorna läses upp i dina AirPods. | `repHome` |
 | 4 | `69-4.jpg` | Tryck för svaret. | 1 gång för A-svaret. 2 för ett kort. 3 för paus. | `repControlsDone` |
-| 5 | `69-5.jpg` | Dela med klassen. | Samma frågor, svar och ljud. | `repShareReady` |
+| 5 | `69-5.jpg` | Dela med klassen. | Lägg till prov som kompisarna har gjort. | `repSchools` |
 
-- **Det här är förhandsvisningar.** Skärmbilderna kommer från A87, CI "Simulator screenshots" 43519509067 (3382ae2, iPhone 17
-  Pro, uppskalade). De ska göras om med skärmbilder från **iPhone 17 Pro Max** (exakt 1320 × 2868) och med
-  **SF Pro Display** på en Mac. Rubrikerna är satta i Segoe UI, eftersom SF Pro inte finns i Windows.
+- **Skärmbilderna är exakta:** CI "Simulator screenshots" **43578038498** på **iPhone 17 Pro Max** (1320 × 2868,
+  main 508aeb2, efter A87, A83 och A92), inte uppskalade. **Rubrikerna är fortfarande Segoe UI**, eftersom SF Pro
+  inte finns i Windows. Gör om dem med SF Pro Display på en Mac före inskickning (kommandot nedan).
+- Bild 5 visar Prov från din skola i stället för Dela-scenen, eftersom Dela bara syns som en symbol i verktygsraden.
 - Gör om dem med `python -I docs/appstore/_src/appstore.py <mapp> <SF-Pro-Display-Bold.otf> <SF-Pro-Display-Regular.otf>`.
 - Apple-stil: grå bakgrund (#F5F5F7), rubrik och en rad, telefonen i en enkel mörk ram och ingen skugga eller gradient.
   Varje bild är en oförändrad skärmbild ur appen.

diff --git a/reports/2026-11-14-1019-kelly-ke56-ke54-promax.md b/reports/2026-11-14-1019-kelly-ke56-ke54-promax.md
@@ -1,0 +1,20 @@
+# Kelly: App Store-bilder (Ke56) och demosidans utkast (Ke54) med riktiga skärmbilder från Pro Max
+
+Roll: Kelly Kapoor (design). Uppdrag från Aron: Ke56 med bilder från det nya Apple-bygget och Ke54 med riktiga
+skärmbilder. **Inget publicerat.**
+
+## Vad som gjordes
+- iOS-bygget **43543518435** (662d863) har inga skärmbilder (bara build-logs och ipa). Jag startade därför
+  "Simulator screenshots" på **iPhone 17 Pro Max** med `screens: rep` på main (508aeb2, samma app plus A87:s sista
+  rättelser): körning **43578038498**, grön. Bilderna är exakt **1320 × 2868**, App Stores format för 6,9 tum.
+- `docs/appstore/69-1.jpg` … `69-5.jpg` är omgjorda ur de bilderna, utan uppskalning. Bild 5 ("Dela med klassen.")
+  visar nu **Prov från din skola** med raden "Lägg till prov som kompisarna har gjort.", eftersom Dela bara syns som en
+  symbol i frågelistan. `docs/appstore/README.md` är uppdaterad.
+- `drafts/site-repetition/img/` har nya bilder ur samma körning (Hem, Nytt prov, frågelistan och första frågan med
+  "Tryck på AirPods för svaret"), ljust och mörkt.
+
+## Kvar
+- Rubrikerna i App Store-bilderna är satta i **Segoe UI** (SF Pro finns inte i Windows). Gör om dem med SF Pro Display
+  på en Mac före inskickning (`docs/appstore/README.md`).
+- Integritetspolicy, åldersgräns och integritetsetiketter. Publicering bara efter Arons ja.
+- Demosidan publiceras bara efter Arons ja och T18.

diff --git a/drafts/site-repetition/README.md b/drafts/site-repetition/README.md
@@ -21,8 +21,8 @@ Ke51:s byggdelar (`build.py`, `hero.html`, `steps.html`, `draft.css`, `draft.js`
 längre bygger på `site/index.html`.
 
 ## Skärmbilderna
-`img/*.webp` (600 px breda, ljust och mörkt) kommer från **A87** (CI "Simulator screenshots" 43519509067, 3382ae2,
-iPhone 17 Pro): `repPlayFirst`, `repMaterial`, `repList` och `repHome`. Byt igen om skärmarna ändras före publicering.
+`img/*.webp` (600 px breda, ljust och mörkt) kommer från CI "Simulator screenshots" **43578038498** (iPhone 17 Pro Max, main 508aeb2,
+efter A87, A83 och A92): `repPlayFirst`, `repMaterial`, `repList` och `repHome`. Byt igen om skärmarna ändras före publicering.
 
 ## Före publicering
 1. Arons ja och T18 godkänt på telefon.
